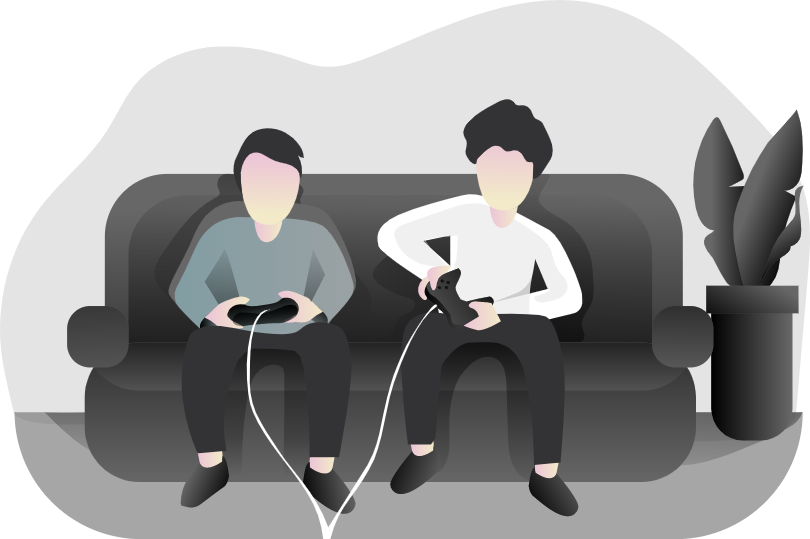
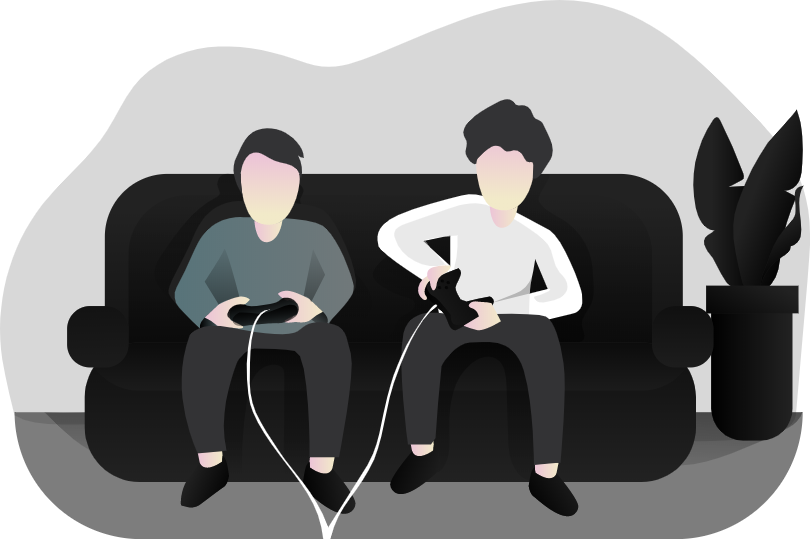
Troca de img quando troca o tema

diff --git a/src/components/Home/index.tsx b/src/components/Home/index.tsx
@@ -1,14 +1,30 @@
-import React from 'react';
+import React, { useContext } from 'react';
+import { ThemeContext } from 'styled-components';
 
-import { Container, ImageBackground } from './styles';
-//import game from '../../assets/game-light.png';
+import { Container, ImageBackground, Text } from './styles';
 
-import './styles.css';
+import gamelight from '../../assets/game-light.png';
+import gamedark from '../../assets/game-dark.png';
 
 const Home: React.FC = () => {
+  const { title } = useContext(ThemeContext);
+
   return(
     <Container>
-      <ImageBackground />
+      { title === 'light' ?
+        <ImageBackground
+          src={gamedark}
+          alt="Game"
+        />
+      :
+        <ImageBackground
+          src={gamelight}
+          alt="Game"
+        />
+      }
+      <Text>
+        Algum texto impactante aqui
+      </Text>
     </Container>
   );
 }

diff --git a/src/components/Header/index.tsx b/src/components/Header/index.tsx
@@ -3,7 +3,7 @@ import Switch from 'react-switch';
 import { ThemeContext } from 'styled-components';
 import { shade } from 'polished';
 
-import { Container, Logo, Nav, List, ListItem } from './styles';
+import { Container, Logo, Nav, List, ListItem, Text } from './styles';
 import logo from '../../assets/arena.png';
 
 interface Props {
@@ -16,8 +16,8 @@ const Header: React.FC<Props> = ({ toggleTheme }) => {
   return(
     <Container>
       <Logo>
-        <img src={logo} alt="Arena" style={{ width: 40, height:40, marginRight: 10 }}/>
-        ARENA
+        <img src={logo} alt="Arena" style={{ width: 42, height:42, marginRight: 10 }}/>
+        <Text>ARENA</Text>
       </Logo>
 
       <Nav>

diff --git a/src/components/Header/styles.ts b/src/components/Header/styles.ts
@@ -1,7 +1,7 @@
 import styled from 'styled-components';
 
 export const Container = styled.div`
-  height: 60px;
+  height: 9vh;
   background: ${props => props.theme.colors.primary};
   color: #FFF;
   display: flex;
@@ -15,6 +15,10 @@ export const Logo = styled.div`
   display: flex;
   align-items: center;
   font-size: 18px;
+`;
+
+export const Text = styled.h1`
+  font-size: 22px;
 `;
 
 export const Nav = styled.div`
@@ -31,4 +35,5 @@ export const List = styled.ul`
 export const ListItem = styled.li`
   margin-left: 15px;
   cursor: pointer;
+  text-transform: uppercase;
 `;

diff --git a/src/App.tsx b/src/App.tsx
@@ -8,6 +8,8 @@ import dark from './styles/themes/dark';
 import GlobalStyle from './styles/global';
 import Header from './components/Header';
 import Home from './components/Home';
+import Jogos from './components/Jogos';
+import Contato from './components/Contato';
 
 const App = () => {
   const [theme, setTheme] = usePersistedState<DefaultTheme>('theme', light);
@@ -22,6 +24,8 @@ const App = () => {
         <GlobalStyle />
         <Header toggleTheme={toggleTheme} />
         <Home />
+        <Jogos />
+        <Contato />
       </div>
     </ThemeProvider>
   );

diff --git a/src/components/Home/styles.ts b/src/components/Home/styles.ts
@@ -2,14 +2,19 @@ import styled from 'styled-components';
 
 export const Container = styled.div`
   display: flex;
-  height: calc(100vh) ; 
+  height: 91vh;
   flex-direction: row;
   padding: 0px 30px;
   align-items: center;
-  justify-content: center;
 `;
 
-export const ImageBackground = styled.div`
-  height: 400px;
-  width: 600px;
+export const ImageBackground = styled.img`
+  width: 633px;
+  height: 439px;
+  margin-left: 50px;
+`;
+
+export const Text = styled.h1`
+  font-size: 32px;
+  margin-left: 30px;
 `;

diff --git a/src/components/Contato/index.tsx b/src/components/Contato/index.tsx
@@ -1,0 +1,15 @@
+import React from 'react';
+
+import { Container, Text } from './styles';
+
+const Contato: React.FC = () => {
+  return(
+    <Container>
+      <Text>
+        Paginas de Contato
+      </Text>
+    </Container>
+  );
+}
+
+export default Contato;

diff --git a/src/components/Jogos/index.tsx b/src/components/Jogos/index.tsx
@@ -1,0 +1,15 @@
+import React from 'react';
+
+import { Container, Text } from './styles';
+
+const Jogos: React.FC = () => {
+  return(
+    <Container>
+      <Text>
+        Paginas de Jogos
+      </Text>
+    </Container>
+  );
+}
+
+export default Jogos;

diff --git a/src/components/Contato/styles.ts b/src/components/Contato/styles.ts
@@ -1,0 +1,11 @@
+import styled from 'styled-components';
+
+export const Container = styled.div`
+  display: flex;
+  flex-direction: column;
+  align-items: center;
+  justify-content: center;
+  height: 100vh;
+`;
+
+export const Text = styled.h1``;

diff --git a/src/components/Jogos/styles.ts b/src/components/Jogos/styles.ts
@@ -1,0 +1,11 @@
+import styled from 'styled-components';
+
+export const Container = styled.div`
+  display: flex;
+  flex-direction: column;
+  align-items: center;
+  justify-content: center;
+  height: 100vh;
+`;
+
+export const Text = styled.h1``;
